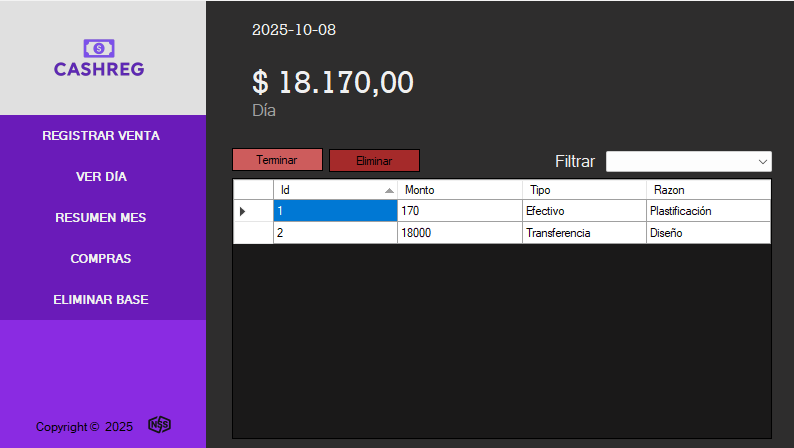
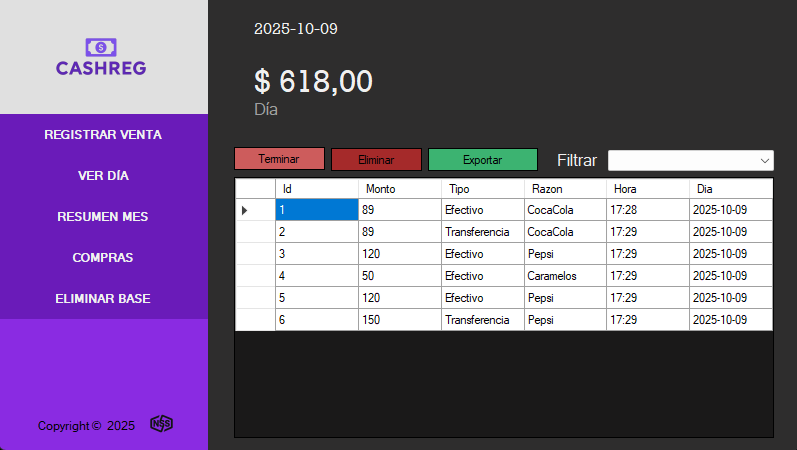
v

diff --git a/cashreg.html b/cashreg.html
@@ -44,7 +44,11 @@
             <img src="img/Cashreg/VentasDia.png" alt="main">
 
             <p class="info-2">Llevarás un monitoreo diario, que te detallará cada una de las ventas que hiciste y el total de ingresos en el día.</p>
+            <p class="info-2">Presenta también la función de exportar tu reporte de ventas a <b style="color: green;">Excel</b>.</p>
             <p class="info-2">La instrucción es simple: cada vez que el día termine, <b style="color: rgb(219, 117, 117);">presionas terminar</b>.</p>
+
+            <img src="img/Cashreg/Excel.png" alt="Reporte de Ventas en Excel">
+
             <p class="info-2">Tus ingresos diarios se sumarán a los ingresos mensuales, que podrás controlar también:</p>
 
             <img src="img/Cashreg/ResumenMes.png" alt="main">
@@ -55,10 +59,12 @@
             <img src="img/Cashreg/RegistrarCompra.png" class="img2" alt="main">
 
             <p class="info-2">Esto es <b>Cashreg</b> base. Recuerda que <b style="color: rgb(214, 214, 158);">las funciones pueden ser adaptadas a tus necesidades.</b></p>
-            <p class="title">Tecnología</p>
-            <p class="info-2">Base de datos: SQLite.</p>
+            <p class="title">Características Técnicas</p>
+            <p class="info-2">Base de datos: SQLite (rápida y segura)</p>
             <p class="info-2">Tipo: local (se guarda en tu PC).</p>
-            <p class="info-2">Conexión: offline.</p>
+            <p class="info-2">Compatible con Windows.</p>
+            <p class="info-2">No requiere conexión a internet ni servidores externos.</p>
+            <p class="info-2">Instalación liviana, interfaz intuitiva y sin dependencias complejas.</p>
 
             <p class="info-2" style="color: green;">Precio actual: $10,000 ARS</p>
 

diff --git a/gym.html b/gym.html
@@ -60,10 +60,12 @@
 
             <p class="info-2">Ahora tendrás control total.</p>
 
-            <p class="title">Tecnología</p>
-            <p class="info-2">Base de datos: SQLite.</p>
+            <p class="title">Características Técnicas</p>
+            <p class="info-2">Base de datos: SQLite (rápida y segura)</p>
             <p class="info-2">Tipo: local (se guarda en tu PC).</p>
-            <p class="info-2">Conexión: offline.</p>
+            <p class="info-2">Compatible con Windows.</p>
+            <p class="info-2">No requiere conexión a internet ni servidores externos.</p>
+            <p class="info-2">Instalación liviana, interfaz intuitiva y sin dependencias complejas.</p>
 
             <p class="info-2" style="color: green;">Precio actual: $55,000 ARS</p>
 
